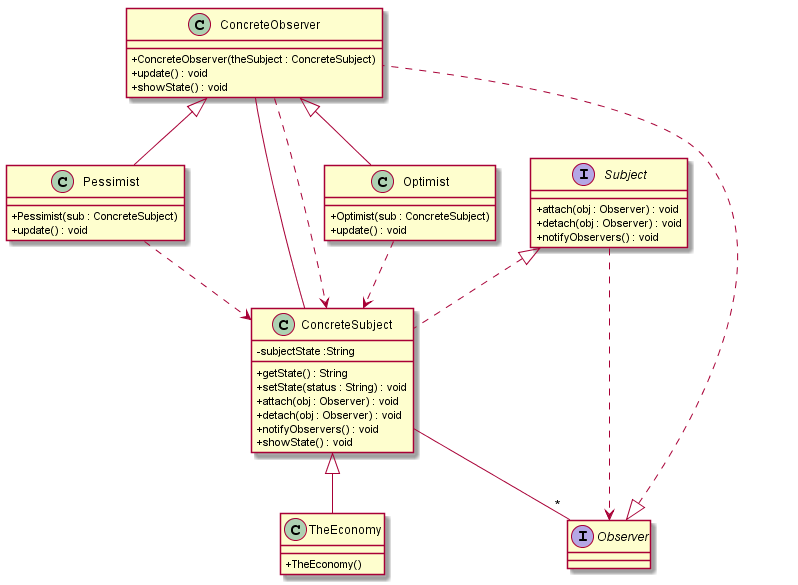
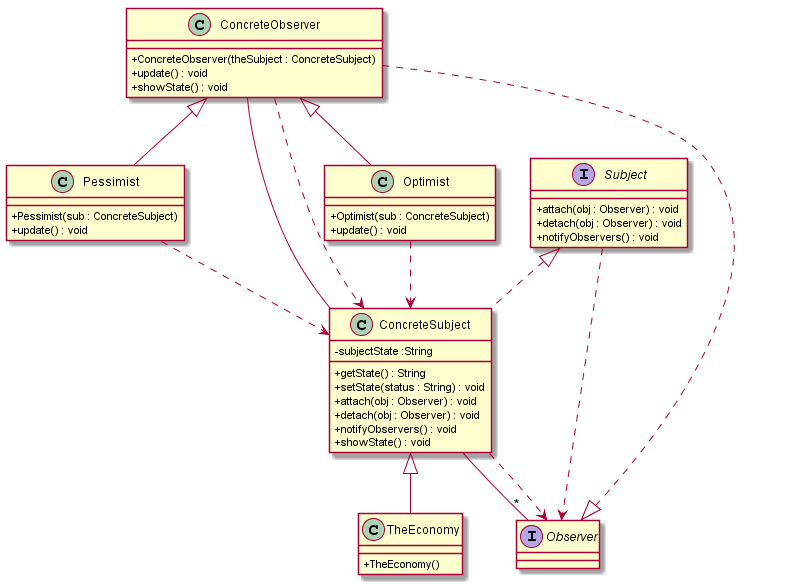
Refacotoring and testing

diff --git a/src/com/parser/GenerateUML.java b/src/com/parser/GenerateUML.java
@@ -1,6 +1,5 @@
 package com.parser;
 
-import com.*;
 import java.io.File;
 import java.io.FileOutputStream;
 import java.io.IOException;
@@ -20,19 +19,19 @@ import net.sourceforge.plantuml.SourceStringReader;
 public class GenerateUML {
 	public static void generateUml(List<ClassStructure> parsedList, String outputFileName) throws IOException {
 		StringBuilder printLine = new StringBuilder();
-		
+
 		System.out.println("Generating Grammer...");
 		printLine.append("@startuml\n");
 		printLine.append("skinparam classAttributeIconSize 0\n");
 		for (ClassStructure classValues : parsedList) {
 			String className = classValues.getClassName();
-			
+
 			if (classValues.isAnInterface()) {
 				printLine.append("interface " + className + " {\n");
 			} else {
 				printLine.append("class " + className + " {\n");
 			}
-			
+
 			if (classValues.getAttributesList() != null) {
 				List<AttributeStructure> attrList = classValues.getAttributesList();
 				for (AttributeStructure attr : attrList) {
@@ -41,26 +40,29 @@ public class GenerateUML {
 							printLine.append("-" + attr.getAttributeName() + " :" + attr.getAttributeType() + "\n");
 						} else if (attr.getAttributeaccessModifier() == "public") {
 							printLine.append("+" + attr.getAttributeName() + " :" + attr.getAttributeType() + "\n");
-						} /*else if (attr.getAttributeaccessModifier() == "protected") {
-							printLine.append("#" + attr.getAttributeName() + " :" + attr.getAttributeType() + "\n");
-						}*/
+						} /*
+							 * else if (attr.getAttributeaccessModifier() ==
+							 * "protected") { printLine.append("#" +
+							 * attr.getAttributeName() + " :" +
+							 * attr.getAttributeType() + "\n"); }
+							 */
 					}
 
 				}
 			}
 			if (classValues.getConstructorList() != null) {
 				List<ConstructorStructure> constList = classValues.getConstructorList();
-				
+
 				for (ConstructorStructure constDec : constList) {
 					/*
 					 * if (methoDec.getMethodAccessModifier() == "private") {
 					 * printLine.append( "-" + methoDec.getMethodName() + "() :"
 					 * + methoDec.getMethodReturnType() + "\n"); } else
-					 */ 
+					 */
 					if (constDec.getConstAccessModifier() == "public") {
 						printLine.append("+" + constDec.getConstName() + "(");
 					}
-					if (constDec.getConstParameters()!=null && !constDec.getConstParameters().isEmpty()) {
+					if (constDec.getConstParameters() != null && !constDec.getConstParameters().isEmpty()) {
 						for (int i = 0; i < constDec.getConstParameters().size(); i++) {
 							if (i == 0) {
 								printLine.append(constDec.getConstParameters().get(i).getParameterName() + " : "
@@ -93,7 +95,7 @@ public class GenerateUML {
 				}
 			}
 			printLine.append("}\n");
-			
+
 			if (classValues.getExtendsList() != null && !classValues.getExtendsList().isEmpty()) {
 				for (ClassOrInterfaceType ext : classValues.getExtendsList()) {
 					printLine.append(ext.getName() + " <|-- " + classValues.getClassName() + "\n");
@@ -108,37 +110,58 @@ public class GenerateUML {
 
 			if (classValues.getAttributesList() != null) {
 				if (!classValues.getAttributesList().isEmpty()) {
-					if(classValues.getClassName().equalsIgnoreCase("A") || classValues.getClassName().equalsIgnoreCase("ConcreteObserver") || classValues.getClassName().equalsIgnoreCase("ConcreteSubject")){
-						
-						for(int i = 0; i < classValues.getAttributesList().size();i++){
+					if (classValues.getClassName().equalsIgnoreCase("A")
+							|| classValues.getClassName().equalsIgnoreCase("ConcreteObserver")
+							|| classValues.getClassName().equalsIgnoreCase("ConcreteSubject")) {
+
+						for (int i = 0; i < classValues.getAttributesList().size(); i++) {
 							List<RelationBean> rels = classValues.getAttributesList().get(i).getRelationBean();
 							for (RelationBean rb : rels) {
 								if (rb.getRelationType().equalsIgnoreCase("ASSOCIATION")) {
-									String parsedAssociation = classValues.getAttributesList().get(0)
-											.createAssociation(rb.getSourceClass(), rb.getAssociatedClass(), rb.isMultiple());
+									String parsedAssociation = classValues.getAttributesList().get(0).createAssociation(
+											rb.getSourceClass(), rb.getAssociatedClass(), rb.isMultiple());
 									printLine.append(parsedAssociation + "\n");
 								}
 
 							}
 						}
-					} else{
-						if(!classValues.getClassName().equalsIgnoreCase("B") || !classValues.getClassName().equalsIgnoreCase("C") || !classValues.getClassName().equalsIgnoreCase("D")){
-					List<RelationBean> rels = classValues.getAttributesList().get(0).getRelationBean();
-					for (RelationBean rb : rels) {
-						if (rb.getRelationType().equalsIgnoreCase("ASSOCIATION")) {
-							String parsedAssociation = classValues.getAttributesList().get(0)
-									.createAssociation(rb.getSourceClass(), rb.getAssociatedClass() ,rb.isMultiple());
-							printLine.append(parsedAssociation + "\n");
-						}
+					} else {
+						if (!classValues.getClassName().equalsIgnoreCase("B")
+								|| !classValues.getClassName().equalsIgnoreCase("C")
+								|| !classValues.getClassName().equalsIgnoreCase("D")) {
+							List<RelationBean> rels = classValues.getAttributesList().get(0).getRelationBean();
+							for (RelationBean rb : rels) {
+								if (rb.getRelationType().equalsIgnoreCase("ASSOCIATION")) {
+									String parsedAssociation = classValues.getAttributesList().get(0).createAssociation(
+											rb.getSourceClass(), rb.getAssociatedClass(), rb.isMultiple());
+									printLine.append(parsedAssociation + "\n");
+								}
 
-					}
+							}
 						}
 					}
 				}
 			}
-			
+
 			if (classValues.getMethodList() != null && !classValues.getMethodList().isEmpty()) {
-				if (classValues.getMethodList().get(0).getMethodParameters() != null
+				if(classValues.getClassName().equalsIgnoreCase("ConcreteSubject")){
+					
+						if(classValues.getMethodList().get(3).getMethodParameters() != null
+								&& classValues.getMethodList().get(3).getMethodParameters().get(0).isRelationFlag()) {
+							List<RelationBean> rels = classValues.getMethodList().get(3).getMethodParameters().get(0)
+									.getRelationBean();
+							for (RelationBean rb : rels) {
+								if (rb.getRelationType().equalsIgnoreCase("DEPENDENCY")) {
+									String parsedAssociation = classValues.getMethodList().get(0)
+											.createDependency(rb.getSourceClass(), rb.getAssociatedClass());
+									printLine.append(parsedAssociation + "\n");
+								}
+
+							}
+						}	
+					
+				}
+				else if(classValues.getMethodList().get(0).getMethodParameters() != null
 						&& classValues.getMethodList().get(0).getMethodParameters().get(0).isRelationFlag()) {
 					List<RelationBean> rels = classValues.getMethodList().get(0).getMethodParameters().get(0)
 							.getRelationBean();
@@ -164,11 +187,12 @@ public class GenerateUML {
 					}
 				}
 			}
-			
+
 			if (classValues.getConstructorList() != null && !classValues.getConstructorList().isEmpty()) {
 				if (classValues.getConstructorList().get(0).getConstParameters() != null
 						&& classValues.getConstructorList().get(0).getConstParameters().get(0).isRelationFlag()) {
-					List<RelationBean> rels = classValues.getConstructorList().get(0).getConstParameters().get(0).getRelationBean();
+					List<RelationBean> rels = classValues.getConstructorList().get(0).getConstParameters().get(0)
+							.getRelationBean();
 					for (RelationBean rb : rels) {
 						if (rb.getRelationType().equalsIgnoreCase("DEPENDENCY")) {
 							String parsedAssociation = classValues.getMethodList().get(0)
@@ -179,19 +203,19 @@ public class GenerateUML {
 					}
 				}
 			}
-			
+
 		}
 
 		printLine.append("@enduml\n");
 
 		SourceStringReader reader = new SourceStringReader(printLine.toString());
-		
+
 		System.out.println("Grammer generated.Now generating class diagram...");
-		
+
 		FileOutputStream output = new FileOutputStream(new File(outputFileName));
-		
+
 		reader.generateImage(output, new FileFormatOption(FileFormat.PNG, false));
-		System.out.println("Class Diagram "+outputFileName+ " generated.");
+		System.out.println("Class Diagram " + outputFileName + " generated.");
 	}
 
 }

diff --git a/src/com/parser/JavaParserUML.java b/src/com/parser/JavaParserUML.java
@@ -25,25 +25,26 @@ import japa.parser.ast.body.Parameter;
 import japa.parser.ast.body.TypeDeclaration;
 import japa.parser.ast.expr.VariableDeclarationExpr;
 import japa.parser.ast.stmt.ExpressionStmt;
+import japa.parser.ast.stmt.ForeachStmt;
 import japa.parser.ast.stmt.Statement;
 
 public class JavaParserUML {
 
 	public static void main(String[] args) {
 
-		/*if (args.length == 0 || args.length < 2) {
+		if (args.length == 0 || args.length < 2) {
 			System.out.println("Erro providing arguments : Terminating Program!");
 			System.exit(0);
 		} else {
 
 			File sourceFolder = new File(args[0]);
-			String outputFileName = args[1];*/
+			String outputFileName = args[1];
 			
-		File sourceFolder = new File("E:/workspaces/CMPE202/cmpe202_UMLParser/src/testClasses/test5");			
+		//File sourceFolder = new File("E:/workspaces/CMPE202/cmpe202_UMLParser/src/testClasses/test4");			
 
 			File[] input = sourceFolder.listFiles((File pathName) -> pathName.getName().endsWith(".java"));
 			try {
-				listClasses(input , "E:/workspaces/CMPE202/cmpe202_UMLParser/src/com/parser/test5.png");
+				listClasses(input , outputFileName);
 			} catch (ParseException e) {
 				// TODO Auto-generated catch block
 				e.printStackTrace();
@@ -52,7 +53,7 @@ public class JavaParserUML {
 				e.printStackTrace();
 			}
 		}
-	//}
+	}
 
 	/*
 	 * Parses all the classes contained in the <INPUT> folder. Parses
@@ -197,6 +198,14 @@ public class JavaParserUML {
 								methodBodyRel.add(dependency);
 							}
 						}
+					}
+					
+					if (stmt instanceof ForeachStmt) {
+						ForeachStmt exprStmt = (ForeachStmt) stmt;
+
+						RelationBean dependency = generateDependecy(exprStmt.getVariable().getType().toString(),
+								sourceClassName.getClassName());
+						methodBodyRel.add(dependency);
 					}
 				}
 			}
